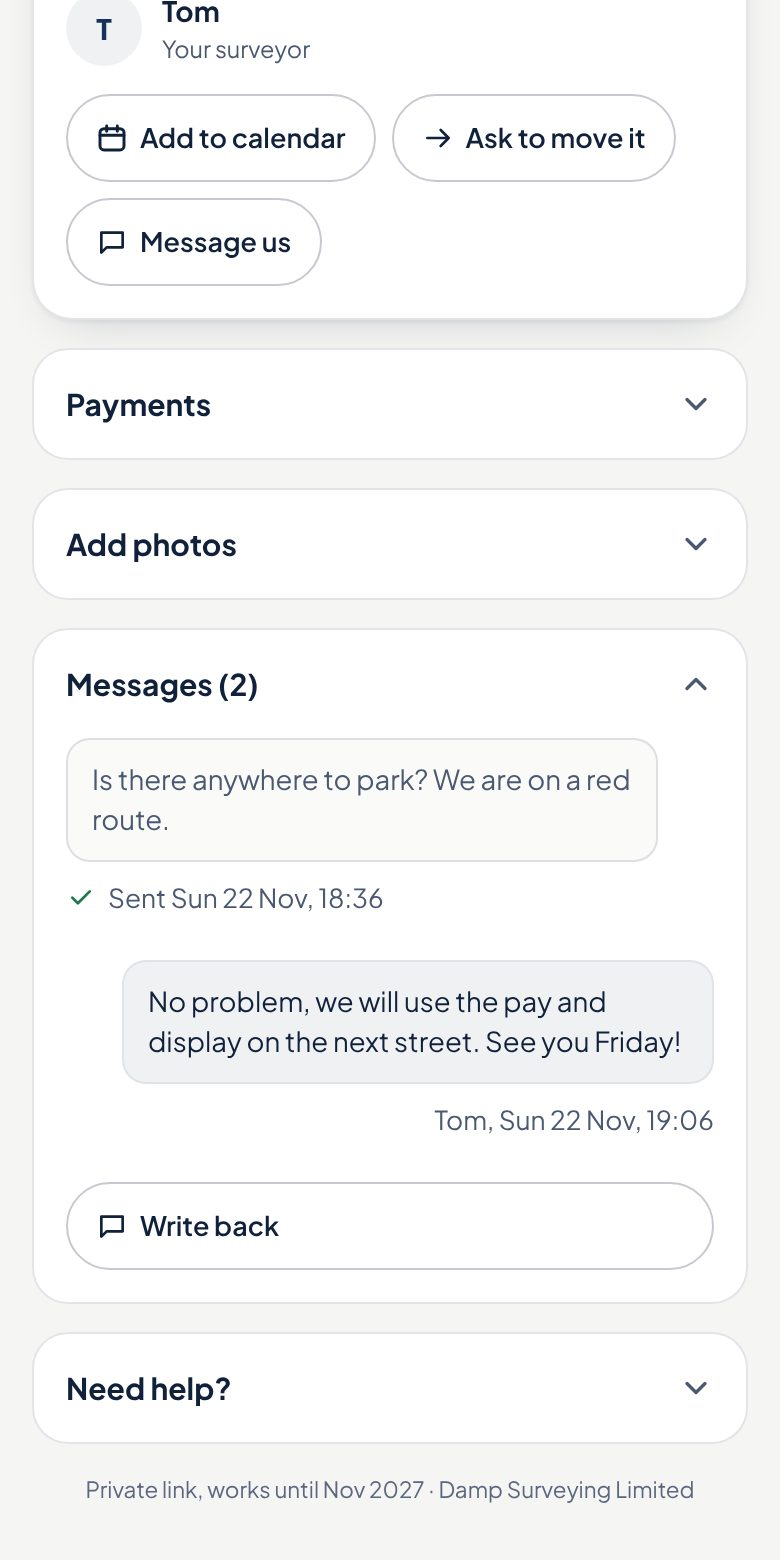
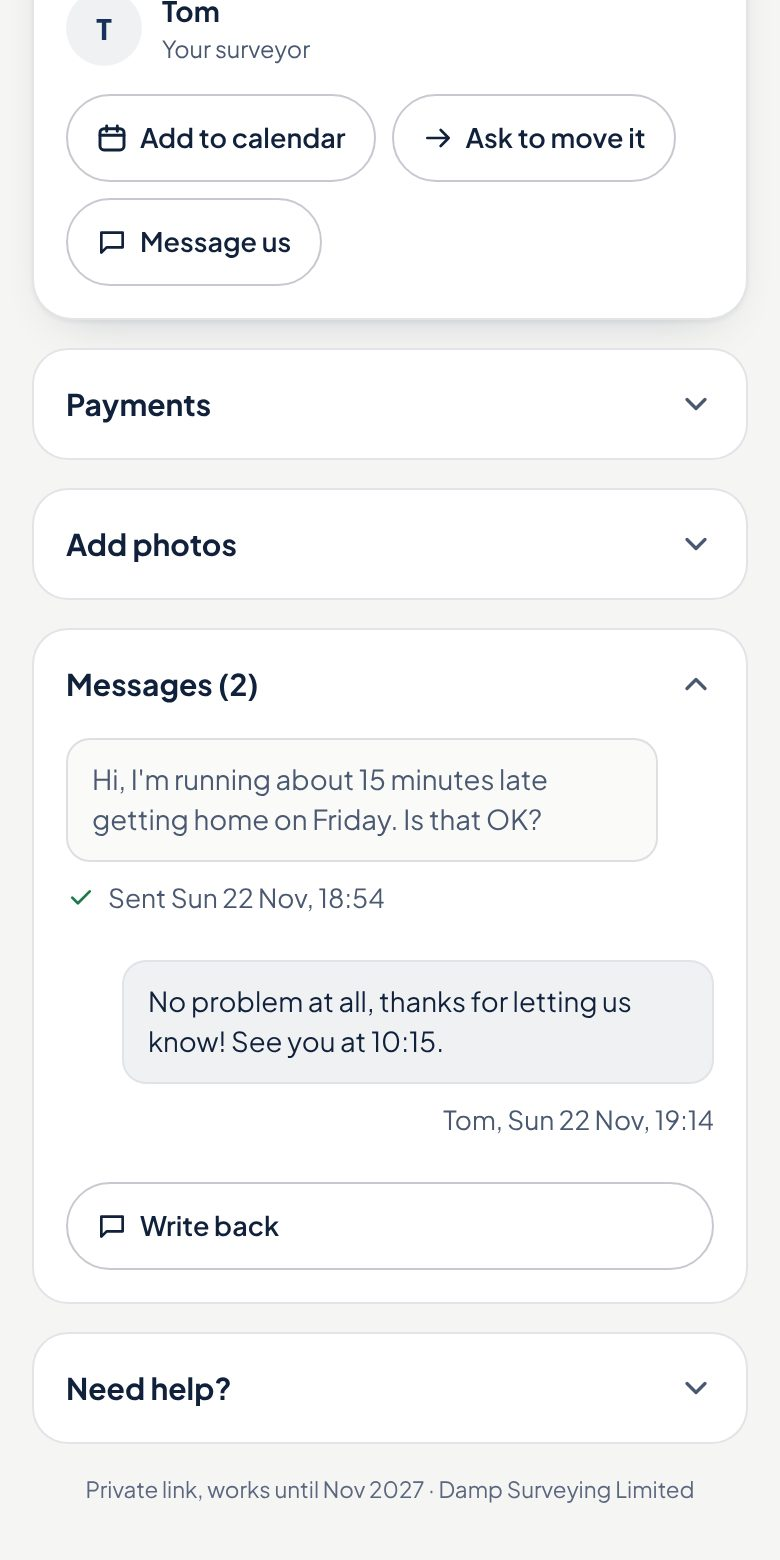
Lab home page preview: a real iPhone, only the screen and words change (#312)
The phone is drawn as the latest iPhone (status bar, Dynamic Island, side
buttons, home bar) with each screen fitted whole, so nothing touches the
edges. The subtitle box keeps one size and only its words fade, so nothing
around the phone moves. The message screen is a friendlier exchange: running
late, no problem at all.

Claude-Session: https://claude.ai/code/session_017ddpv8HaVBhG9f4NgcrNU8

Changed region(s): [[0.1231, 0.4923, 0.8, 0.5846], [0.1846, 0.6154, 0.8615, 0.6769], [0.5538, 0.7077, 0.9231, 0.7385]]

diff --git a/public/assets/tour.css b/public/assets/tour.css
@@ -14,16 +14,14 @@
   .yp-grid{row-gap:14px}
   .yp-text{display:contents}
   .yp-list,.yp-text>.eyebrow,.yp-text>p{display:none}
-  .yp-grid .yp-phone{order:3;width:min(220px,58vw);padding:9px;border-radius:38px}
-  .yp-grid .yp-screen{border-radius:30px}
+  .yp-grid .yp-stage{order:3;width:min(220px,56vw);gap:14px}
   /* One line of six on a phone (the owner, 22 Nov 2026), sized to the screen's width. */
   .yp-steps{order:2;display:flex;justify-content:center;gap:3px;flex-wrap:nowrap}
   .yp-steps span{flex:none;white-space:nowrap;font-size:clamp(9.5px,2.6vw,12.5px);font-weight:600;color:var(--muted);padding:5px clamp(4px,1.4vw,10px);border-radius:999px;border:1px solid var(--line);
     animation:yp-step 24s infinite;animation-play-state:paused}
   .yp-steps span:nth-child(2){animation-delay:4s}.yp-steps span:nth-child(3){animation-delay:8s}.yp-steps span:nth-child(4){animation-delay:12s}.yp-steps span:nth-child(5){animation-delay:16s}.yp-steps span:nth-child(6){animation-delay:20s}
   .yp.is-live .yp-steps span{animation-play-state:running}
-  .yp-subs span{font-size:13.5px;padding:7px 10px}
-  .yp-grid .yp-phone{margin-bottom:64px}
+  .yp-subs{font-size:13.5px;padding:9px 12px}
 }
 @keyframes yp-step{0%{color:var(--muted);background:transparent}2%{color:var(--accent);background:var(--accent-soft)}16.7%{color:var(--accent);background:var(--accent-soft)}18.7%{color:var(--muted);background:transparent}100%{color:var(--muted);background:transparent}}
 .yp-text{display:flex;flex-direction:column;gap:18px;align-items:flex-start}
@@ -35,27 +33,39 @@
 .yp-num{flex:none;width:30px;height:30px;border-radius:50%;display:grid;place-items:center;font-size:13px;font-weight:700;color:var(--accent);background:var(--accent-soft)}
 .yp-list strong{display:block;font-size:16px;font-weight:600}
 .yp-list span{color:var(--muted);font-size:14.5px;line-height:1.5}
-/* The phone: a dark frame, the screens stacked inside it fading one to the next. */
-.yp-phone{justify-self:center;position:relative;width:min(300px,78vw);aspect-ratio:390/780;border-radius:44px;padding:11px;background:#0b111a;
-  box-shadow:0 30px 60px -28px rgba(10,20,35,.55),inset 0 0 0 2px rgba(255,255,255,.08),0 0 0 1px var(--line-strong)}
-.yp-screen{position:relative;width:100%;height:100%;border-radius:34px;overflow:hidden;background:var(--navy,var(--bg))}
-.yp-screen img{position:absolute;inset:0;width:100%;height:100%;object-fit:cover;object-position:top;opacity:0;animation:yp-show 24s infinite;animation-play-state:paused}
-.yp-screen img:first-child{opacity:1}
-.yp-screen img:nth-child(2){animation-delay:4s}.yp-screen img:nth-child(3){animation-delay:8s}.yp-screen img:nth-child(4){animation-delay:12s}.yp-screen img:nth-child(5){animation-delay:16s}.yp-screen img:nth-child(6){animation-delay:20s}
-/* Subtitles over the foot of the screen (the owner, 22 Nov 2026), changing with
-   each screen on the same beat, like captions on a video. */
-.yp-subs{position:absolute;left:50%;top:calc(100% + 14px);transform:translateX(-50%);width:min(340px,92vw);display:grid;z-index:2;pointer-events:none}
-.yp-phone{margin-bottom:76px}
-.yp-subs span{grid-area:1/1;align-self:end;justify-self:center;text-align:center;font-size:14px;line-height:1.4;font-weight:600;color:#fff;
-  background:var(--ink,#0b111a);padding:8px 14px;border-radius:10px;box-shadow:0 0 0 1px var(--line-strong);opacity:0;animation:yp-show 24s infinite;animation-play-state:paused}
+/* The phone (the owner, 22 Nov 2026: "make it the latest iPhone"): a titanium edge,
+   side buttons, the status bar with the Dynamic Island, and each screen fitted
+   whole at its own proportions, so nothing touches or crosses the edges. Only the
+   screen changes; the frame, the bar and the subtitle box never move. */
+.yp-stage{justify-self:center;display:flex;flex-direction:column;align-items:center;gap:18px;width:min(300px,78vw)}
+.yp-phone{position:relative;width:100%;padding:3.4%;border-radius:15% / 7%;background:#1b1d21;
+  box-shadow:inset 0 0 0 1.5px #6e7177,inset 0 0 0 4px #2a2c30,0 30px 60px -28px rgba(10,20,35,.55)}
+.yp-phone::before,.yp-phone::after{content:"";position:absolute;width:3px;border-radius:2px;background:#4a4d52}
+.yp-phone::before{right:-3px;top:27%;height:12%}
+.yp-phone::after{left:-3px;top:22%;height:15%}
+.yp-screen{position:relative;container-type:inline-size;border-radius:12.5% / 5.9%;overflow:hidden;background:var(--yp-bar);color:var(--yp-ink)}
+.yp-status{position:relative;display:flex;align-items:center;justify-content:space-between;aspect-ratio:390/54;padding:0 9% 0 11%;font-size:4.2cqw}
+.yp-status b{font-weight:600;letter-spacing:-.01em}
+.yp-island{position:absolute;left:50%;top:22%;transform:translateX(-50%);width:31%;height:62%;border-radius:999px;background:#000}
+.yp-icons{display:flex;gap:1.4cqw;align-items:center}
+.yp-icons svg{height:2.9cqw;width:auto;fill:currentColor}
+.yp-shots{position:relative;aspect-ratio:390/780}
+.yp-shots img{position:absolute;inset:0;width:100%;height:100%;opacity:0;animation:yp-show 24s infinite;animation-play-state:paused}
+.yp-shots img:first-child{opacity:1}
+.yp-shots img:nth-child(2){animation-delay:4s}.yp-shots img:nth-child(3){animation-delay:8s}.yp-shots img:nth-child(4){animation-delay:12s}.yp-shots img:nth-child(5){animation-delay:16s}.yp-shots img:nth-child(6){animation-delay:20s}
+.yp-home{position:absolute;left:50%;bottom:1.1%;transform:translateX(-50%);width:35%;height:1.3cqw;border-radius:9px;background:var(--yp-ink);opacity:.85}
+/* One subtitle box that never changes size: two lines' room, only its words fade. */
+.yp-subs{display:grid;align-items:center;width:min(360px,90vw);min-height:calc(2 * 1.4em + 22px);padding:11px 16px;border-radius:12px;
+  background:var(--ink,#0b111a);box-shadow:0 0 0 1px var(--line-strong);font-size:14px;line-height:1.4;font-weight:600;color:#fff;text-align:center}
+.yp-subs span{grid-area:1/1;opacity:0;animation:yp-show 24s infinite;animation-play-state:paused}
 .yp-subs span:first-child{opacity:1}
 .yp-subs span:nth-child(2){animation-delay:4s}.yp-subs span:nth-child(3){animation-delay:8s}.yp-subs span:nth-child(4){animation-delay:12s}.yp-subs span:nth-child(5){animation-delay:16s}.yp-subs span:nth-child(6){animation-delay:20s}
-.yp.is-live .yp-subs span{animation-play-state:running}
+.yp.is-live .yp-subs span,.yp.is-live .yp-shots img{animation-play-state:running}
 /* Only runs once it is on screen (tour.js), so it starts at the first screen as they arrive. */
-.yp.is-live .yp-screen img,.yp.is-live .yp-list li{animation-play-state:running}
+.yp.is-live .yp-list li{animation-play-state:running}
 @keyframes yp-show{0%{opacity:0}2%{opacity:1}16.7%{opacity:1}18.7%{opacity:0}100%{opacity:0}}
 @keyframes yp-on{0%{background:transparent}2%{background:var(--accent-soft)}16.7%{background:var(--accent-soft)}18.7%{background:transparent}100%{background:transparent}}
-@media (prefers-reduced-motion:reduce){.yp-screen img,.yp-list li,.yp-subs span,.yp-steps span{animation:none}.yp-screen img:first-child,.yp-subs span:first-child{opacity:1}}
+@media (prefers-reduced-motion:reduce){.yp-shots img,.yp-list li,.yp-subs span,.yp-steps span{animation:none}.yp-shots img:first-child,.yp-subs span:first-child{opacity:1}}
 
 /* A slim line for estate agents beneath the landlords section (ATi). */
 .agentband{background:var(--navy);border-top:1px solid var(--line)}

diff --git a/public/staff/home-trial-new-dampscan.html b/public/staff/home-trial-new-dampscan.html
@@ -298,7 +298,7 @@ html{scroll-padding-top:88px}
 
 </style>
 <script>document.documentElement.classList.remove('no-js')</script>
-<link rel="stylesheet" href="/assets/tour.css?v=80b3f533" />
+<link rel="stylesheet" href="/assets/tour.css?v=4fbba1f4" />
 <script src="/assets/tour.js?v=78fbf5ae" defer></script>
 </head>
 <body>
@@ -552,7 +552,10 @@ html{scroll-padding-top:88px}
         <li><span class="yp-num">6</span><div><strong>Got a quote for the work? We check it, free</strong><span>Send any quote you are given and we will check it against your report: what it covers, what it misses, what you do not need.</span></div></li>
       </ol>
     </div>
-    <div class="yp-phone" aria-hidden="true"><div class="yp-screen"><img src="/assets/tour/dampscan-1.jpg" alt="" loading="lazy" decoding="async" width="390" height="780" /><img src="/assets/tour/dampscan-2.jpg" alt="" loading="lazy" decoding="async" width="390" height="780" /><img src="/assets/tour/dampscan-3.jpg" alt="" loading="lazy" decoding="async" width="390" height="780" /><img src="/assets/tour/dampscan-4.jpg" alt="" loading="lazy" decoding="async" width="390" height="780" /><img src="/assets/tour/dampscan-5.jpg" alt="" loading="lazy" decoding="async" width="390" height="780" /><img src="/assets/tour/dampscan-6.jpg" alt="" loading="lazy" decoding="async" width="390" height="780" /></div><div class="yp-subs"><span>Tap Pay with Apple Pay. You're booked.</span><span>Plans changed? Pick a new time yourself.</span><span>Questions or photos? Message us. Our replies stay here.</span><span>On the day, see when your surveyor is on the way.</span><span>Paid in full? Your report opens right here.</span><span>Got a quote for the work? Send it. We'll check it, free.</span></div></div>
+    <div class="yp-stage" aria-hidden="true">
+      <div class="yp-phone"><div class="yp-screen" style="--yp-bar:#0c1a2b;--yp-ink:#f5f8fc"><div class="yp-status"><b>9:41</b><i class="yp-island"></i><span class="yp-icons"><svg viewBox="0 0 18 12"><rect x="0" y="8" width="3" height="4" rx="1"/><rect x="5" y="5.5" width="3" height="6.5" rx="1"/><rect x="10" y="3" width="3" height="9" rx="1"/><rect x="15" y="0" width="3" height="12" rx="1"/></svg><svg viewBox="0 0 16 12"><path d="M8 2.6c2.3 0 4.4.9 6 2.4l1.2-1.3A10.5 10.5 0 0 0 8 .8C5.2.8 2.7 1.9.8 3.7L2 5c1.6-1.5 3.7-2.4 6-2.4zm0 3.6c1.3 0 2.5.5 3.4 1.3l1.2-1.3A6.6 6.6 0 0 0 8 4.4c-1.8 0-3.4.7-4.6 1.8l1.2 1.3c.9-.8 2.1-1.3 3.4-1.3zM8 9.8l2.1-2.2A3 3 0 0 0 8 6.8a3 3 0 0 0-2.1.8z"/></svg><svg viewBox="0 0 27 12"><rect x=".5" y=".5" width="23" height="11" rx="3.2" fill="none" stroke="currentColor" opacity=".4"/><rect x="2" y="2" width="20" height="8" rx="2"/><rect x="24.6" y="4" width="1.6" height="4" rx=".8" opacity=".4"/></svg></span></div><div class="yp-shots"><img src="/assets/tour/dampscan-1.jpg" alt="" loading="lazy" decoding="async" width="390" height="780" /><img src="/assets/tour/dampscan-2.jpg" alt="" loading="lazy" decoding="async" width="390" height="780" /><img src="/assets/tour/dampscan-3.jpg" alt="" loading="lazy" decoding="async" width="390" height="780" /><img src="/assets/tour/dampscan-4.jpg" alt="" loading="lazy" decoding="async" width="390" height="780" /><img src="/assets/tour/dampscan-5.jpg" alt="" loading="lazy" decoding="async" width="390" height="780" /><img src="/assets/tour/dampscan-6.jpg" alt="" loading="lazy" decoding="async" width="390" height="780" /></div><i class="yp-home"></i></div></div>
+      <div class="yp-subs"><span>Tap Pay with Apple Pay. You're booked.</span><span>Plans changed? Pick a new time yourself.</span><span>Questions or photos? Message us. Our replies stay here.</span><span>On the day, see when your surveyor is on the way.</span><span>Paid in full? Your report opens right here.</span><span>Got a quote for the work? Send it. We'll check it, free.</span></div>
+    </div>
     <div class="yp-steps" aria-hidden="true"><span>Pay</span><span>Move</span><span>Message</span><span>On the way</span><span>Report</span><span>Quote check</span></div>
   </div>
 </section>

diff --git a/public/staff/home-trial-new-ati.html b/public/staff/home-trial-new-ati.html
@@ -310,7 +310,7 @@ html{scroll-padding-top:88px}
 
 </style>
 <script>document.documentElement.classList.remove('no-js')</script>
-<link rel="stylesheet" href="/assets/tour.css?v=80b3f533" />
+<link rel="stylesheet" href="/assets/tour.css?v=4fbba1f4" />
 <script src="/assets/tour.js?v=78fbf5ae" defer></script>
 </head>
 <body>
@@ -567,7 +567,10 @@ html{scroll-padding-top:88px}
         <li><span class="yp-num">6</span><div><strong>Got a quote for the work? We check it, free</strong><span>Send any quote you are given and we will check it against your report: what it covers, what it misses, what you do not need.</span></div></li>
       </ol>
     </div>
-    <div class="yp-phone" aria-hidden="true"><div class="yp-screen"><img src="/assets/tour/ati-1.jpg" alt="" loading="lazy" decoding="async" width="390" height="780" /><img src="/assets/tour/ati-2.jpg" alt="" loading="lazy" decoding="async" width="390" height="780" /><img src="/assets/tour/ati-3.jpg" alt="" loading="lazy" decoding="async" width="390" height="780" /><img src="/assets/tour/ati-4.jpg" alt="" loading="lazy" decoding="async" width="390" height="780" /><img src="/assets/tour/ati-5.jpg" alt="" loading="lazy" decoding="async" width="390" height="780" /><img src="/assets/tour/ati-6.jpg" alt="" loading="lazy" decoding="async" width="390" height="780" /></div><div class="yp-subs"><span>Tap Pay with Apple Pay. You're booked.</span><span>Plans changed? Pick a new time yourself.</span><span>Questions or photos? Message us. Our replies stay here.</span><span>On the day, see when your surveyor is on the way.</span><span>Paid in full? Your report opens right here.</span><span>Got a quote for the work? Send it. We'll check it, free.</span></div></div>
+    <div class="yp-stage" aria-hidden="true">
+      <div class="yp-phone"><div class="yp-screen" style="--yp-bar:#f5f5f3;--yp-ink:#11213c"><div class="yp-status"><b>9:41</b><i class="yp-island"></i><span class="yp-icons"><svg viewBox="0 0 18 12"><rect x="0" y="8" width="3" height="4" rx="1"/><rect x="5" y="5.5" width="3" height="6.5" rx="1"/><rect x="10" y="3" width="3" height="9" rx="1"/><rect x="15" y="0" width="3" height="12" rx="1"/></svg><svg viewBox="0 0 16 12"><path d="M8 2.6c2.3 0 4.4.9 6 2.4l1.2-1.3A10.5 10.5 0 0 0 8 .8C5.2.8 2.7 1.9.8 3.7L2 5c1.6-1.5 3.7-2.4 6-2.4zm0 3.6c1.3 0 2.5.5 3.4 1.3l1.2-1.3A6.6 6.6 0 0 0 8 4.4c-1.8 0-3.4.7-4.6 1.8l1.2 1.3c.9-.8 2.1-1.3 3.4-1.3zM8 9.8l2.1-2.2A3 3 0 0 0 8 6.8a3 3 0 0 0-2.1.8z"/></svg><svg viewBox="0 0 27 12"><rect x=".5" y=".5" width="23" height="11" rx="3.2" fill="none" stroke="currentColor" opacity=".4"/><rect x="2" y="2" width="20" height="8" rx="2"/><rect x="24.6" y="4" width="1.6" height="4" rx=".8" opacity=".4"/></svg></span></div><div class="yp-shots"><img src="/assets/tour/ati-1.jpg" alt="" loading="lazy" decoding="async" width="390" height="780" /><img src="/assets/tour/ati-2.jpg" alt="" loading="lazy" decoding="async" width="390" height="780" /><img src="/assets/tour/ati-3.jpg" alt="" loading="lazy" decoding="async" width="390" height="780" /><img src="/assets/tour/ati-4.jpg" alt="" loading="lazy" decoding="async" width="390" height="780" /><img src="/assets/tour/ati-5.jpg" alt="" loading="lazy" decoding="async" width="390" height="780" /><img src="/assets/tour/ati-6.jpg" alt="" loading="lazy" decoding="async" width="390" height="780" /></div><i class="yp-home"></i></div></div>
+      <div class="yp-subs"><span>Tap Pay with Apple Pay. You're booked.</span><span>Plans changed? Pick a new time yourself.</span><span>Questions or photos? Message us. Our replies stay here.</span><span>On the day, see when your surveyor is on the way.</span><span>Paid in full? Your report opens right here.</span><span>Got a quote for the work? Send it. We'll check it, free.</span></div>
+    </div>
     <div class="yp-steps" aria-hidden="true"><span>Pay</span><span>Move</span><span>Message</span><span>On the way</span><span>Report</span><span>Quote check</span></div>
   </div>
 </section>

diff --git a/scripts/home-tour.js b/scripts/home-tour.js
@@ -15,9 +15,20 @@ const ITEMS = [
 ];
 const SUBS = ['Tap Pay with Apple Pay. You\'re booked.', 'Plans changed? Pick a new time yourself.', 'Questions or photos? Message us. Our replies stay here.',
   'On the day, see when your surveyor is on the way.', 'Paid in full? Your report opens right here.', 'Got a quote for the work? Send it. We\'ll check it, free.'];
+/* The top of an iPhone above each screen, in the page's own colour (ATi light, DampScan dark):
+   the time, the Dynamic Island, signal, wifi and battery. */
+const BAR = { ati: '#f5f5f3;--yp-ink:#11213c', dampscan: '#0c1a2b;--yp-ink:#f5f8fc' };
+const STATUS = '<div class="yp-status"><b>9:41</b><i class="yp-island"></i><span class="yp-icons">'
+  + '<svg viewBox="0 0 18 12"><rect x="0" y="8" width="3" height="4" rx="1"/><rect x="5" y="5.5" width="3" height="6.5" rx="1"/><rect x="10" y="3" width="3" height="9" rx="1"/><rect x="15" y="0" width="3" height="12" rx="1"/></svg>'
+  + '<svg viewBox="0 0 16 12"><path d="M8 2.6c2.3 0 4.4.9 6 2.4l1.2-1.3A10.5 10.5 0 0 0 8 .8C5.2.8 2.7 1.9.8 3.7L2 5c1.6-1.5 3.7-2.4 6-2.4zm0 3.6c1.3 0 2.5.5 3.4 1.3l1.2-1.3A6.6 6.6 0 0 0 8 4.4c-1.8 0-3.4.7-4.6 1.8l1.2 1.3c.9-.8 2.1-1.3 3.4-1.3zM8 9.8l2.1-2.2A3 3 0 0 0 8 6.8a3 3 0 0 0-2.1.8z"/></svg>'
+  + '<svg viewBox="0 0 27 12"><rect x=".5" y=".5" width="23" height="11" rx="3.2" fill="none" stroke="currentColor" opacity=".4"/><rect x="2" y="2" width="20" height="8" rx="2"/><rect x="24.6" y="4" width="1.6" height="4" rx=".8" opacity=".4"/></svg>'
+  + '</span></div>';
 const STEPS = ['Pay', 'Move', 'Message', 'On the way', 'Report', 'Quote check'];
 const SERVICES = '<!-- ============================= SERVICES ============================= -->';
 const AREAS = '<!-- ============================= AREAS WE COVER ============================= -->';
+
+/** The iPhone around one or more screens (the agents page uses it too). */
+export const phone = (code, shots) => `<div class="yp-phone"><div class="yp-screen" style="--yp-bar:${BAR[code]}">${STATUS}<div class="yp-shots">${shots}</div><i class="yp-home"></i></div></div>`;
 
 export function tourSection(code) {
   const shots = ITEMS.map((_, i) => `<img src="/assets/tour/${code}-${i + 1}.jpg" alt="" loading="lazy" decoding="async" width="390" height="780" />`).join('');
@@ -32,7 +43,10 @@ export function tourSection(code) {
 ${ITEMS.map(([h, p], i) => `        <li><span class="yp-num">${i + 1}</span><div><strong>${h}</strong><span>${p}</span></div></li>`).join('\n')}
       </ol>
     </div>
-    <div class="yp-phone" aria-hidden="true"><div class="yp-screen">${shots}</div><div class="yp-subs">${SUBS.map((s) => `<span>${s}</span>`).join('')}</div></div>
+    <div class="yp-stage" aria-hidden="true">
+      ${phone(code, shots)}
+      <div class="yp-subs">${SUBS.map((s) => `<span>${s}</span>`).join('')}</div>
+    </div>
     <div class="yp-steps" aria-hidden="true">${STEPS.map((s) => `<span>${s}</span>`).join('')}</div>
   </div>
 </section>

diff --git a/public/staff/home-trial-agents-ati.html b/public/staff/home-trial-agents-ati.html
@@ -20,8 +20,8 @@
 <link rel="stylesheet" href="/assets/header.css?v=0e4145f6" />
 <link rel="stylesheet" href="/assets/area.css?v=e702af0f" />
 <link rel="stylesheet" href="/assets/book.css?v=cf3d6b50" />
-<link rel="stylesheet" href="/assets/tour.css?v=80b3f533" />
-<link rel="stylesheet" href="/assets/agents-page.css?v=39ef5077" />
+<link rel="stylesheet" href="/assets/tour.css?v=4fbba1f4" />
+<link rel="stylesheet" href="/assets/agents-page.css?v=4cb885d8" />
 <style>:root{--head-bg:rgba(245,245,243,.9);--head-solid:#f5f5f3}</style>
 <script>document.documentElement.classList.remove('no-js')</script>
 
@@ -77,7 +77,7 @@
         <li><span class="yp-num">4</span><div><strong>Book in under a minute</strong><span>Quick book takes the address, the buyer and who lets us in. The buyer chooses their own survey and time.</span></div></li>
         <li><span class="yp-num">5</span><div><strong>No login to forget</strong><span>One private link, kept on your phone. Nothing to install, nothing for the branch to set up.</span></div></li>
       </ol>
-      <div class="yp-phone" aria-hidden="true"><div class="yp-screen"><img src="/assets/tour/agent-1.jpg" alt="" decoding="async" width="390" height="780" style="opacity:1" /></div></div>
+      <div class="yp-stage" aria-hidden="true"><div class="yp-phone"><div class="yp-screen" style="--yp-bar:#f5f5f3;--yp-ink:#11213c"><div class="yp-status"><b>9:41</b><i class="yp-island"></i><span class="yp-icons"><svg viewBox="0 0 18 12"><rect x="0" y="8" width="3" height="4" rx="1"/><rect x="5" y="5.5" width="3" height="6.5" rx="1"/><rect x="10" y="3" width="3" height="9" rx="1"/><rect x="15" y="0" width="3" height="12" rx="1"/></svg><svg viewBox="0 0 16 12"><path d="M8 2.6c2.3 0 4.4.9 6 2.4l1.2-1.3A10.5 10.5 0 0 0 8 .8C5.2.8 2.7 1.9.8 3.7L2 5c1.6-1.5 3.7-2.4 6-2.4zm0 3.6c1.3 0 2.5.5 3.4 1.3l1.2-1.3A6.6 6.6 0 0 0 8 4.4c-1.8 0-3.4.7-4.6 1.8l1.2 1.3c.9-.8 2.1-1.3 3.4-1.3zM8 9.8l2.1-2.2A3 3 0 0 0 8 6.8a3 3 0 0 0-2.1.8z"/></svg><svg viewBox="0 0 27 12"><rect x=".5" y=".5" width="23" height="11" rx="3.2" fill="none" stroke="currentColor" opacity=".4"/><rect x="2" y="2" width="20" height="8" rx="2"/><rect x="24.6" y="4" width="1.6" height="4" rx=".8" opacity=".4"/></svg></span></div><div class="yp-shots"><img src="/assets/tour/agent-1.jpg" alt="" decoding="async" width="390" height="780" /></div><i class="yp-home"></i></div></div></div>
     </div>
   </section>
 

diff --git a/scripts/agents-page.js b/scripts/agents-page.js
@@ -7,6 +7,7 @@
  */
 import { shell } from './page-shell.js';
 import { SITES } from './sites.js';
+import { phone } from './home-tour.js';
 
 const GETS = [
   ['Every buyer in one place', 'Each property you send us or let us into, with its stage at a glance: booked, surveyed, report ready.'],
@@ -30,7 +31,7 @@ export function renderAgents(site = SITES.ati) {
       <ol class="yp-list ag-list">
         ${GETS.map(([h, p], i) => `<li><span class="yp-num">${i + 1}</span><div><strong>${h}</strong><span>${p}</span></div></li>`).join('\n        ')}
       </ol>
-      <div class="yp-phone" aria-hidden="true"><div class="yp-screen"><img src="/assets/tour/agent-1.jpg" alt="" decoding="async" width="390" height="780" style="opacity:1" /></div></div>
+      <div class="yp-stage" aria-hidden="true">${phone('ati', '<img src="/assets/tour/agent-1.jpg" alt="" decoding="async" width="390" height="780" />')}</div>
     </div>
   </section>
 

diff --git a/public/assets/agents-page.css b/public/assets/agents-page.css
@@ -3,4 +3,4 @@
 @media (max-width:900px){.ag-grid{grid-template-columns:1fr}}
 .ag-list li{animation:none}
 .booking .btn{display:flex;justify-content:center;margin-top:10px}
-.ag-grid .yp-screen img{animation:none;opacity:1}
+.ag-grid .yp-shots img{animation:none;opacity:1}
